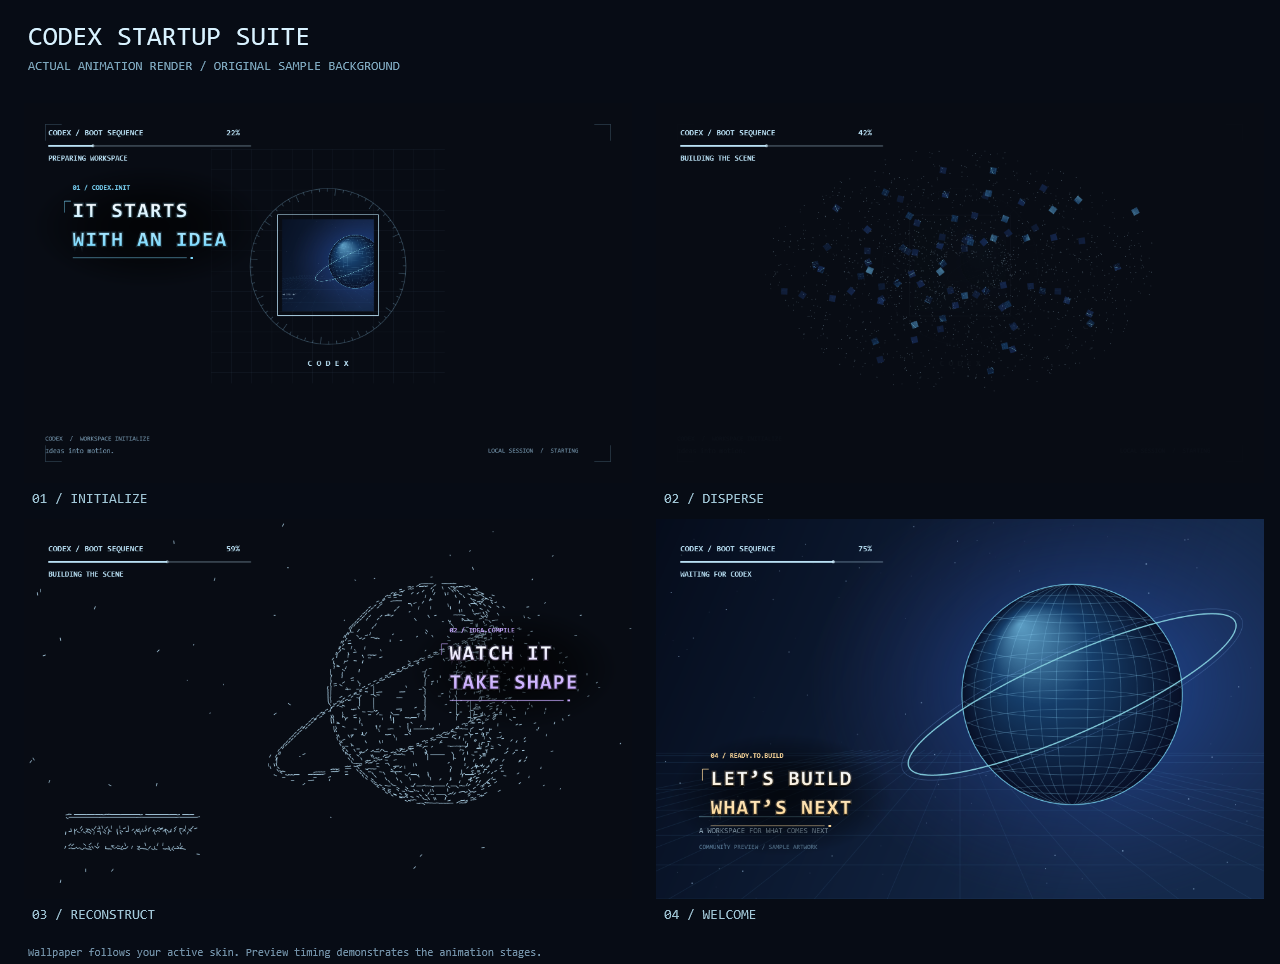
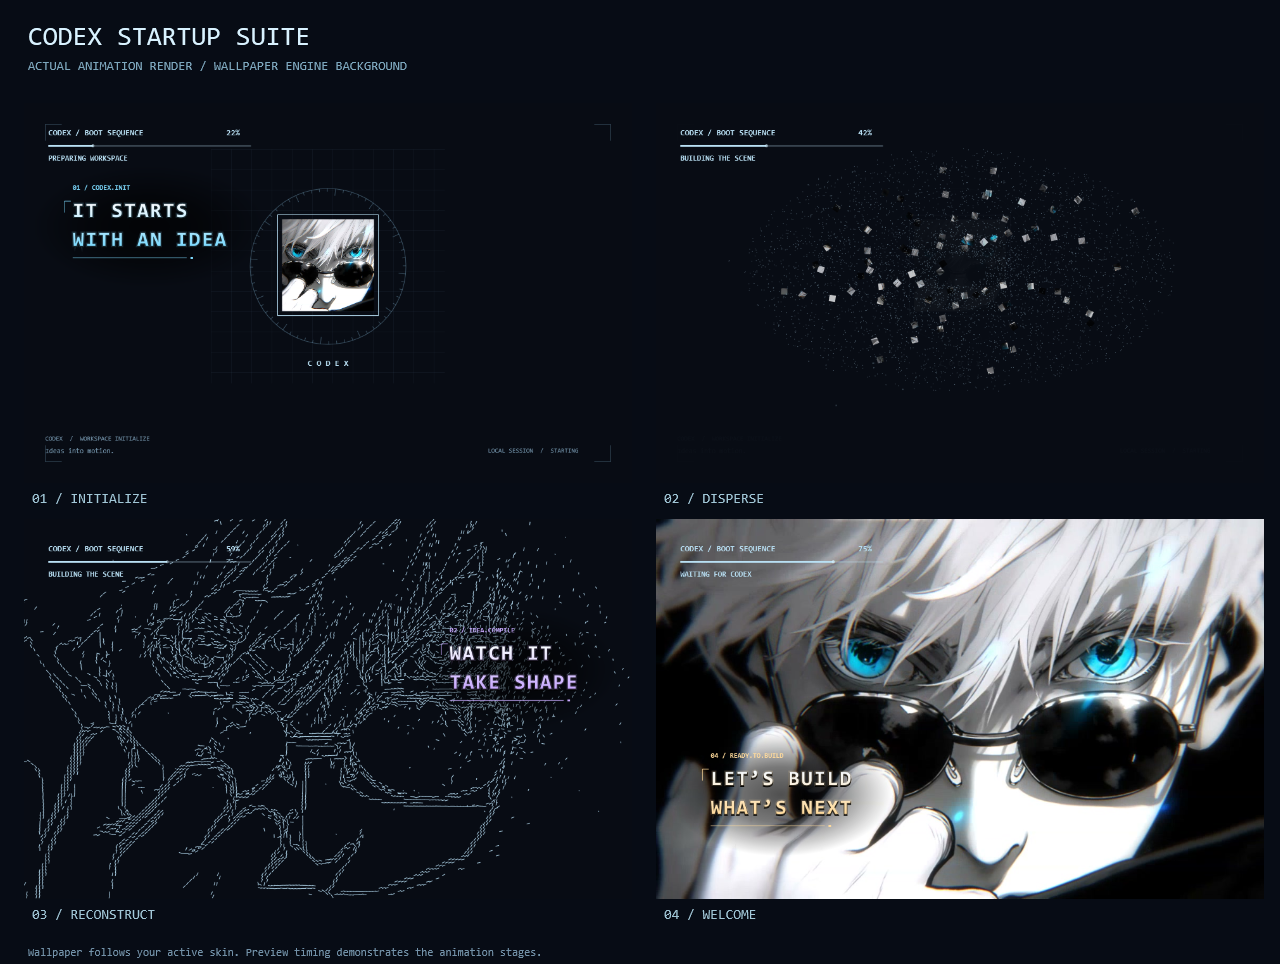
Show Wallpaper Engine intro and skin linkage with Gojo previews; document video and scene imports

diff --git a/scripts/PreviewRenderer.cs b/scripts/PreviewRenderer.cs
@@ -21,6 +21,54 @@ internal static class PreviewRenderer {
  static void Save(BitmapSource bitmap,string path) {
   var encoder=new PngBitmapEncoder();encoder.Frames.Add(BitmapFrame.Create(bitmap));using(var file=File.Create(path))encoder.Save(file);
  }
+ static BitmapSource Load(string path) {
+  var image=new BitmapImage();image.BeginInit();image.CacheOption=BitmapCacheOption.OnLoad;image.UriSource=new Uri(Path.GetFullPath(path));image.EndInit();image.Freeze();return image;
+ }
+ static void Chinese(DrawingContext d,string text,double x,double y,double size,string color) {
+  d.DrawText(new FormattedText(text,CultureInfo.GetCultureInfo("zh-CN"),FlowDirection.LeftToRight,new Typeface("Microsoft YaHei UI"),size,ColorBrush(color)),new Point(x,y));
+ }
+ static void Feature(string root,Config config,BitmapSource poster) {
+  var source=Load(Path.Combine(root,"wallpaper-engine-source.jpg"));var actual=SkinLayout(poster);
+  var visual=new DrawingVisual();using(var d=visual.RenderOpen()) {
+   d.DrawRectangle(ColorBrush("#080F1B"),null,new Rect(0,0,1500,840));
+   Text(d,"CODEX STARTUP SUITE / WALLPAPER ENGINE",40,27,17,"#7DB8D6");
+   Chinese(d,"同一张壁纸，贯穿 Codex 开场与应用背景",40,66,35,"#EDF6FF");
+   Chinese(d,"视频动态壁纸 + 场景壁纸，都能扫描、导入和应用",40,119,21,"#8CD6F5");
+   string[] en={"WALLPAPER ENGINE","STARTUP ANIMATION","CODEX BACKGROUND"};
+   string[] zh={"五条悟 · 场景画面实采","同源壁纸 · 实际开场渲染","同源壁纸 · 背景界面示意"};
+   BitmapSource[] images={source,Frame(config,poster,5.8),actual};
+   for(int i=0;i<3;i++) {
+    double x=40+490*i;
+    Text(d,en[i],x,184,23,"#E5F4FF");Chinese(d,zh[i],x,220,17,"#8EABC1");
+    d.PushClip(new RectangleGeometry(new Rect(x,264,440,275),8,8));
+    var brush=new ImageBrush(images[i]){Stretch=Stretch.UniformToFill};d.DrawRectangle(brush,null,new Rect(x,264,440,275));d.Pop();
+    d.DrawRoundedRectangle(null,new Pen(ColorBrush("#304B65"),1),new Rect(x,264,440,275),8,8);
+    if(i<2){double a=x+453,y=398;d.DrawLine(new Pen(ColorBrush("#71C6E4"),2),new Point(a,y),new Point(a+21,y));d.DrawLine(new Pen(ColorBrush("#71C6E4"),2),new Point(a+13,y-7),new Point(a+21,y));d.DrawLine(new Pen(ColorBrush("#71C6E4"),2),new Point(a+13,y+7),new Point(a+21,y));}
+   }
+   d.DrawRoundedRectangle(ColorBrush("#102034"),null,new Rect(40,580,1420,90),10,10);
+   Chinese(d,"视频动态壁纸 / VIDEO",61,595,22,"#BDE7FF");
+   Chinese(d,"扫描并导入视频  →  开场跟随当前视频  →  Codex 动态背景",61,631,19,"#D1DFEC");
+   d.DrawRoundedRectangle(ColorBrush("#102034"),null,new Rect(40,687,1420,90),10,10);
+   Chinese(d,"场景壁纸 / SCENE",61,702,22,"#BDE7FF");
+   Chinese(d,"场景桥接组件  →  开场使用自动生成的预览图  →  Codex 内实时渲染播放",61,738,19,"#D1DFEC");
+   Chinese(d,"Wallpaper Engine · 五条悟 / 3021850803 · 右侧为界面示意，不含真实聊天内容",40,805,15,"#8CA4B9");
+  }Save(Bitmap(visual,1500,840),Path.Combine(root,"wallpaper-link.png"));
+ }
+ static BitmapSource SkinLayout(BitmapSource poster) {
+  var v=new DrawingVisual();using(var d=v.RenderOpen()) {
+   d.DrawRectangle(new ImageBrush(poster){Stretch=Stretch.UniformToFill},null,new Rect(0,0,W,H));
+   d.DrawRectangle(new SolidColorBrush(Color.FromArgb(75,4,10,20)),null,new Rect(0,0,W,H));
+   d.DrawRectangle(new SolidColorBrush(Color.FromArgb(170,7,13,23)),null,new Rect(0,0,W,44));
+   d.DrawRectangle(new SolidColorBrush(Color.FromArgb(175,7,13,23)),null,new Rect(0,44,210,H-44));
+   Text(d,"CODEX",20,12,16,"#E2F2FF");Text(d,"WORKSPACE",232,12,14,"#BED0DE");
+   Text(d,"+ New chat",22,75,16,"#E2F2FF");Text(d,"Projects",22,130,14,"#A4BDCF");
+   Text(d,"  Workspace",22,165,14,"#D3E3F0");Text(d,"  Ideas",22,205,14,"#D3E3F0");Text(d,"  Build",22,245,14,"#D3E3F0");
+   Text(d,"What will you build?",290,260,30,"#FFFFFF");
+   d.DrawRoundedRectangle(new SolidColorBrush(Color.FromArgb(210,12,20,32)),new Pen(ColorBrush("#829AB2"),1),new Rect(250,466,665,90),14,14);
+   Text(d,"Describe your next idea...",274,489,17,"#D2E3EE");
+   Text(d,"UI LAYOUT DEMO",736,573,12,"#D2E3EE");
+  }return Bitmap(v,W,H);
+ }
  static BitmapSource Artwork() {
   var visual=new DrawingVisual();using(var d=visual.RenderOpen()) {
    d.DrawRectangle(new LinearGradientBrush((Color)ColorConverter.ConvertFromString("#050C1B"),(Color)ColorConverter.ConvertFromString("#14294B"),35),null,new Rect(0,0,W,H));
@@ -54,11 +102,12 @@ internal static class PreviewRenderer {
  [STAThread] public static int Main(string[] args) {
   try {
    string root=Path.GetFullPath(args[0]);Directory.CreateDirectory(root);string frames=Path.Combine(root,"frames");Directory.CreateDirectory(frames);
-   var config=Entry.ReadConfigFile(args[1]);var poster=Artwork();
+   var config=Entry.ReadConfigFile(args[1]);bool custom=args.Length>2;var poster=custom?Load(args[2]):Artwork();
+   if(File.Exists(Path.Combine(root,"wallpaper-engine-source.jpg")))Feature(root,config,poster);
    double[] moments={1.6,3.95,5.8,9.8};string[] labels={"01 / INITIALIZE","02 / DISPERSE","03 / RECONSTRUCT","04 / WELCOME"};
    var contact=new DrawingVisual();using(var d=contact.RenderOpen()) {
     d.DrawRectangle(ColorBrush("#070C15"),null,new Rect(0,0,1280,964));
-    Text(d,"CODEX STARTUP SUITE",28,20,27,"#D8F2FF");Text(d,"ACTUAL ANIMATION RENDER / ORIGINAL SAMPLE BACKGROUND",28,58,13,"#7EA8BE");
+    Text(d,"CODEX STARTUP SUITE",28,20,27,"#D8F2FF");Text(d,custom?"ACTUAL ANIMATION RENDER / WALLPAPER ENGINE BACKGROUND":"ACTUAL ANIMATION RENDER / ORIGINAL SAMPLE BACKGROUND",28,58,13,"#7EA8BE");
     for(int i=0;i<4;i++) {
      double x=24+(i%2)*632,y=103+(i/2)*416;
      d.DrawImage(Frame(config,poster,moments[i]),new Rect(x,y,608,380));
@@ -67,7 +116,7 @@ internal static class PreviewRenderer {
     Text(d,"Wallpaper follows your active skin. Preview timing demonstrates the animation stages.",28,946,11,"#7393AA");
    }Save(Bitmap(contact,1280,964),Path.Combine(root,"animation-overview.png"));
    for(int i=0;i<144;i++)Save(Frame(config,poster,i/12.0),Path.Combine(frames,"frame-"+i.ToString("000")+".png"));
-   Console.WriteLine("Rendered 144 animation frames and a four-stage overview with original sample artwork.");return 0;
+   Console.WriteLine("Rendered 144 animation frames and a four-stage overview using the selected background.");return 0;
   }catch(Exception error){Console.Error.WriteLine(error);return 1;}
  }
 }

diff --git a/README.md b/README.md
@@ -1,26 +1,43 @@
 # Codex Startup Suite
 
-Windows 版 Codex 的社区启动工具：统一代理与皮肤启动、跟随壁纸的开场动画，以及 Wallpaper Engine 场景壁纸桥接。
+把 **Wallpaper Engine 的视频动态壁纸和场景壁纸导入 Codex**：同一张壁纸，贯穿开场动画与应用背景。支持 Windows，并提供代理、皮肤和动画的统一启动入口。
 
 这不是 OpenAI 官方项目。当前是 **v0.1.0 预览版**，适用于 Windows 11 x64、Microsoft Store 版 Codex 和 Codex Dynamic Skin **1.7.3**。代理入口要求已开启本机 HTTP 系统代理，不需要 TUN；它不保证服务端或代理节点永不重连。
 
-## 效果预览
+## 核心效果：Wallpaper Engine → 开场动画 → Codex 背景
 
-下面由程序实际渲染，使用项目原创示例背景。安装后背景会跟随当前皮肤；动图演示动画阶段，实际启动等待由应用就绪状态决定。
+![同一张五条悟 Wallpaper Engine 场景用于开场动画和 Codex 背景](docs/preview/wallpaper-link.png)
+
+上图使用「五条悟」场景壁纸：左侧为 Wallpaper Engine 场景渲染画面，中间为程序实际渲染的开场动画，右侧为 **Codex 背景的界面布局示意**，展示同一张壁纸用于两处的效果。示意图不含真实聊天，也不是实机界面截图；实际应用内场景播放已经过本机验证。
+
+| Wallpaper Engine 壁纸类型 | 导入皮肤管理器 | 开场动画 | Codex 应用背景 |
+| --- | --- | --- | --- |
+| 视频动态壁纸（Video） | 支持本地扫描、导入到主页、应用 | 跟随当前视频壁纸 | 动态视频播放 |
+| 场景壁纸（Scene） | 支持本地扫描、导入到主页、应用 | 使用自动生成的场景预览图制作开场动画 | 由 Wallpaper Engine 实时渲染播放 |
+
+**场景支持由本项目补做的通用桥接组件提供**：复用本机 Wallpaper Engine 渲染场景，将动态画面交给 Codex 的背景层，无需逐张录制或转换成 MP4。组件还兼容部分采用 `gifscene.pkg` 名称的场景包，并处理本地流传输和播放器退出。
+
+新下载的视频与场景，在重新打开管理器的 **Wallpaper Engine** 列表时会自动扫描识别；然后选择 **导入到主页 → 应用到 Codex**。这是自动识别、手动导入，不会在后台自动切换皮肤。运行场景时保持 Wallpaper Engine 和皮肤管理器开启。
+
+## 五条壁纸的开场效果
+
+下面是程序使用同一张五条场景预览渲染的动画阶段。实际启动等待由应用就绪状态决定；场景在开场中使用预览图，应用内使用实时场景。
 
 ![Codex 开场动画动态预览](docs/preview/animation-preview.gif)
 
 ![初始化、粒子散开、轮廓重组和欢迎文字四阶段](docs/preview/animation-overview.png)
 
-可使用 `scripts/Render-Preview.ps1 -FfmpegPath "C:\Tools\ffmpeg.exe"` 重新生成。预览不包含真实聊天、个人壁纸或桌面画面。
+可使用 `scripts/Render-Preview.ps1 -FfmpegPath "C:\Tools\ffmpeg.exe" -PosterPath "C:\Previews\scene.jpg"` 重新生成动画预览。未提供 `PosterPath` 时使用原创示例背景。五条壁纸来源与画面权利说明见 [预览素材说明](docs/preview/ASSET_NOTICE.md)；仓库不附完整壁纸原素材。
 
 ## 功能
 
-- 保留本机代理参数和皮肤调试参数，统一启动应用。
+- 扫描并导入 Wallpaper Engine 的视频动态壁纸和场景壁纸，应用到 Codex 皮肤。
+- 开场跟随当前选中的 Wallpaper Engine 壁纸；更换皮肤后自动读取新素材。
+- 新增场景桥接组件，场景由 Wallpaper Engine 实时渲染，无需逐张转视频。
 - 英文科技感字幕、多阶段开场、进度条和贴合应用窗口的淡出交接；不显示 Esc 按钮，仍可按 Esc 跳过。
-- 每次读取当前皮肤的图片或视频；场景壁纸的开场使用本机生成的预览图。
-- 使用正版 Wallpaper Engine 渲染场景，在 Codex 背景播放；默认 1280×720、15 FPS，无需逐张录制。
+- 场景背景默认输出 1280×720、15 FPS；鼠标交互不转发给壁纸。
 - 每次打开管理器的 Wallpaper Engine 列表重新扫描。新场景是**自动识别、手动导入**，不在后台自动切换皮肤。
+- 保留本机代理参数和皮肤调试参数，统一启动应用。
 
 ## 安装
 
@@ -67,4 +84,4 @@ powershell.exe -NoProfile -File .\Test.ps1
 powershell.exe -NoProfile -File .\scripts\Pack.ps1
 ```
 
-源码模块：`codex-proxy`（统一入口）、`dragon-codex-boot`（动画）、`codex-scene-bridge`（场景桥接）。不包含官方 Codex 安装包、第三方管理器、FFmpeg 二进制或任何个人壁纸。许可证与上游来源见 [THIRD_PARTY_NOTICES.md](THIRD_PARTY_NOTICES.md)。
+源码模块：`codex-proxy`（统一入口）、`dragon-codex-boot`（动画）、`codex-scene-bridge`（场景桥接）。不包含官方 Codex 安装包、第三方管理器、FFmpeg 二进制或完整壁纸素材。许可证与上游来源见 [THIRD_PARTY_NOTICES.md](THIRD_PARTY_NOTICES.md)。

diff --git a/codex-scene-bridge/README.md b/codex-scene-bridge/README.md
@@ -1,0 +1,25 @@
+# Wallpaper Engine 场景桥接组件
+
+现有皮肤管理器负责扫描与导入 Wallpaper Engine 视频壁纸。本项目增加的通用组件补齐了 **Scene 场景壁纸**的运行入口，让视频和场景都能进入相同的「导入到主页 → 应用到 Codex」流程。
+
+## 增加的支持
+
+- 使用已安装并运行的 Wallpaper Engine 原生渲染场景，输出到组件自己的离屏窗口。
+- 只捕获经过路径与窗口身份核对的场景窗口，将画面实时传给 Codex 背景层，无需逐张录成 MP4。
+- 通过组件自己的本地传输适配皮肤页面，退出后清理对应的播放器、流和传输入口。
+- 自动生成场景预览图，供开场动画跟随同一张壁纸；开场使用预览图制作动画，进入应用后播放实时场景。
+- 扫描时识别部分使用 `gifscene.pkg` 等非标准名称的场景，在经过路径和包头验证后创建同目录硬链接别名，不复制整份素材、不覆盖已有 `scene.pkg`。
+
+## 使用
+
+按根目录 [安装说明](../README.md#安装) 安装后，组件位于管理器旁的 `scene-runtime`，由管理器自动发现。
+
+保持 Wallpaper Engine 和皮肤管理器运行，打开管理器的 **Wallpaper Engine** 列表，选择本地已下载的视频或场景，点击 **导入到主页**，再从主页 **应用到 Codex**。新下载的场景会在再次打开列表时扫描识别，不需要逐张安装组件；导入和切换仍由使用者决定。
+
+## 范围
+
+默认场景输出 1280×720、15 FPS。鼠标事件不转发给场景，编码流不含音轨；引擎本身的声音由 Wallpaper Engine 设置管理。这里只说明 Video 和 Scene，未增加 Web 壁纸或应用类壁纸支持。
+
+曾在原安装环境验证 25 张场景的渲染和流解码，并验证一张场景在实际 Codex 中的视频帧推进、主题还原和退出清理。驱动、场景依赖和应用升级仍可能影响兼容性，不能解释为所有未来场景均已验证。
+
+组件源码为本项目原始 MIT 实现；Wallpaper Engine、壁纸资产和 FFmpeg 保持各自许可，详见 [第三方说明](../THIRD_PARTY_NOTICES.md)。

diff --git a/docs/preview/ASSET_NOTICE.md b/docs/preview/ASSET_NOTICE.md
@@ -1,0 +1,13 @@
+# 预览素材说明
+
+首页的五条悟示例使用本地已安装的 Wallpaper Engine 场景「咒术回战 五条悟」，Workshop ID **3021850803**。
+
+- 壁纸项目：[Steam Workshop 页面](https://steamcommunity.com/sharedfiles/filedetails/?id=3021850803)。
+- 本地项目元数据注明的原画作者：**patrika**；原画来源链接为 https://wall.alphacoders.com/big.php?i=1325724 。
+- 本地项目说明的发布者为「孟婆干杯」，并注明转载需保留原画信息、勿作商用。
+
+这些壁纸画面的权利属于原权利人，不随本项目代码的 MIT 许可证重新授权。仓库仅提供功能效果预览，不附 `scene.pkg`、完整视频、音轨或 Workshop 项目。使用者应自行从原项目获取壁纸，并遵守原作者要求。
+
+`wallpaper-link.png` 中的来源画面采自 Wallpaper Engine 场景渲染，开场为本项目实际渲染。右侧是明确标注的 Codex 背景界面布局示意，使用虚构的通用占位文案，不是实机界面截图。它是功能效果对照，不是一次完整启动的同步录像，未截取真实聊天或桌面。场景在开场中使用加载后的预览图，在 Codex 背景中由 Wallpaper Engine 实时渲染。
+
+预览工具在没有指定壁纸时绘制的星球示例背景为本项目原创，可按项目 MIT 许可证使用。
